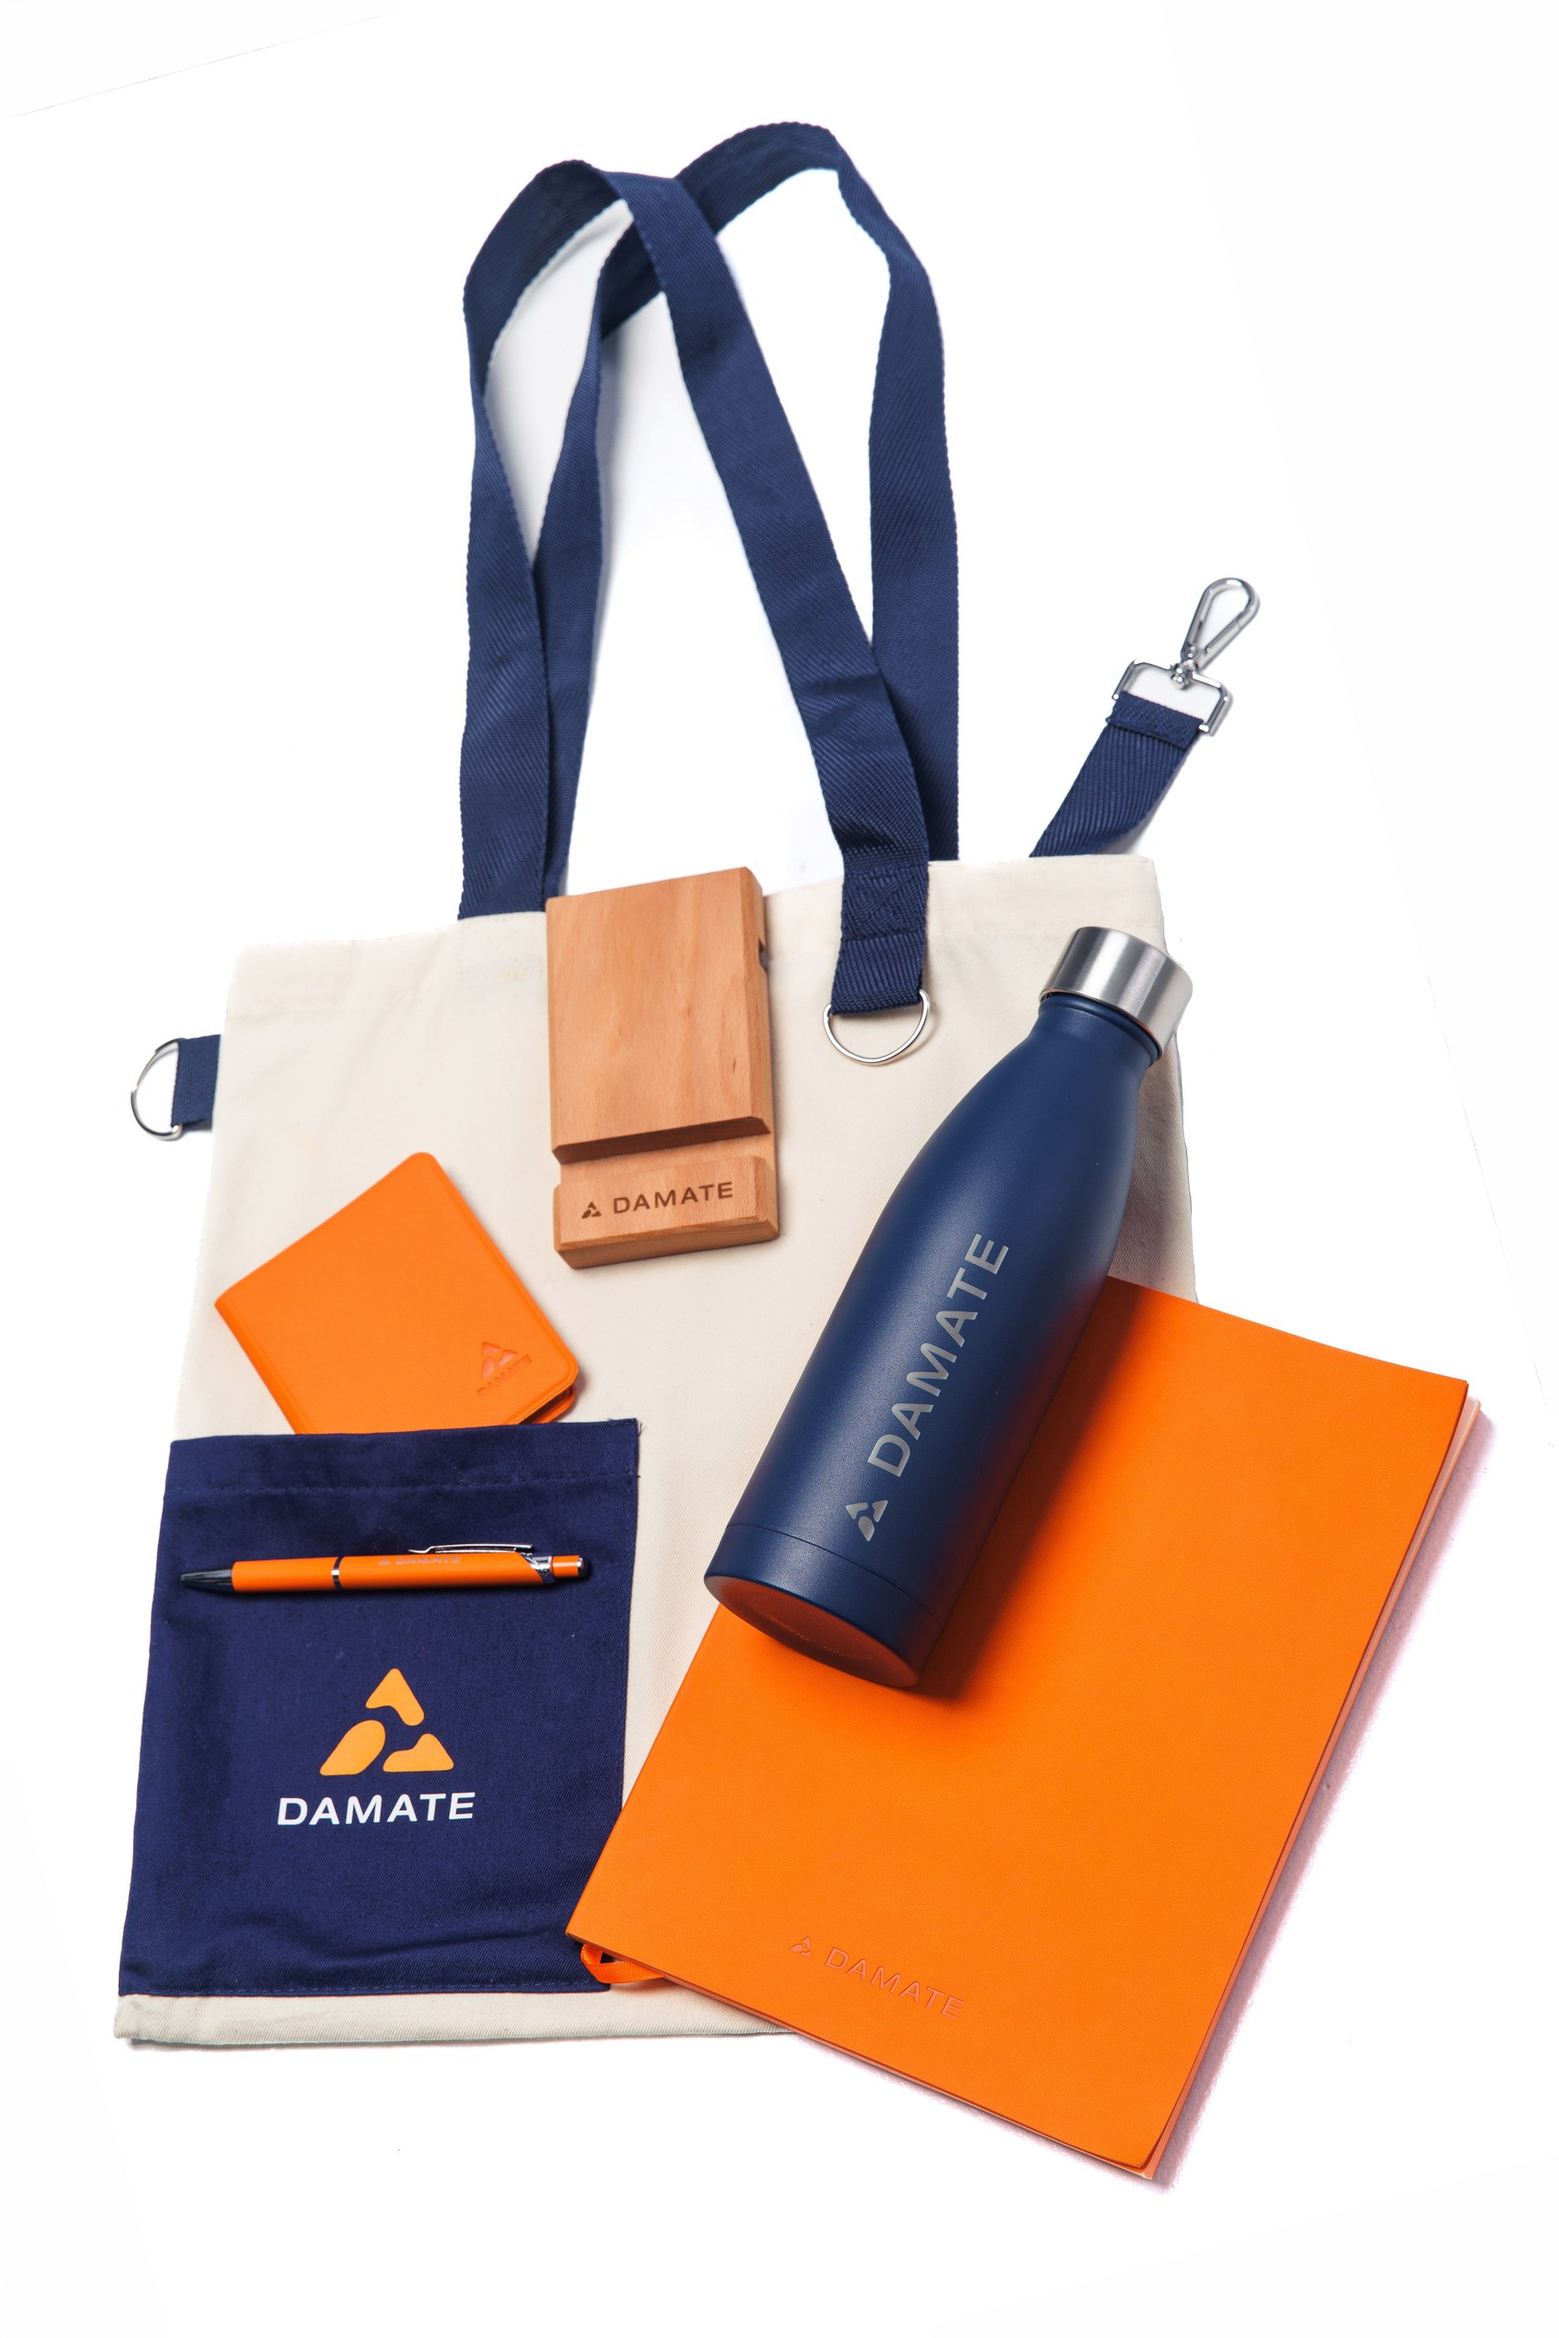
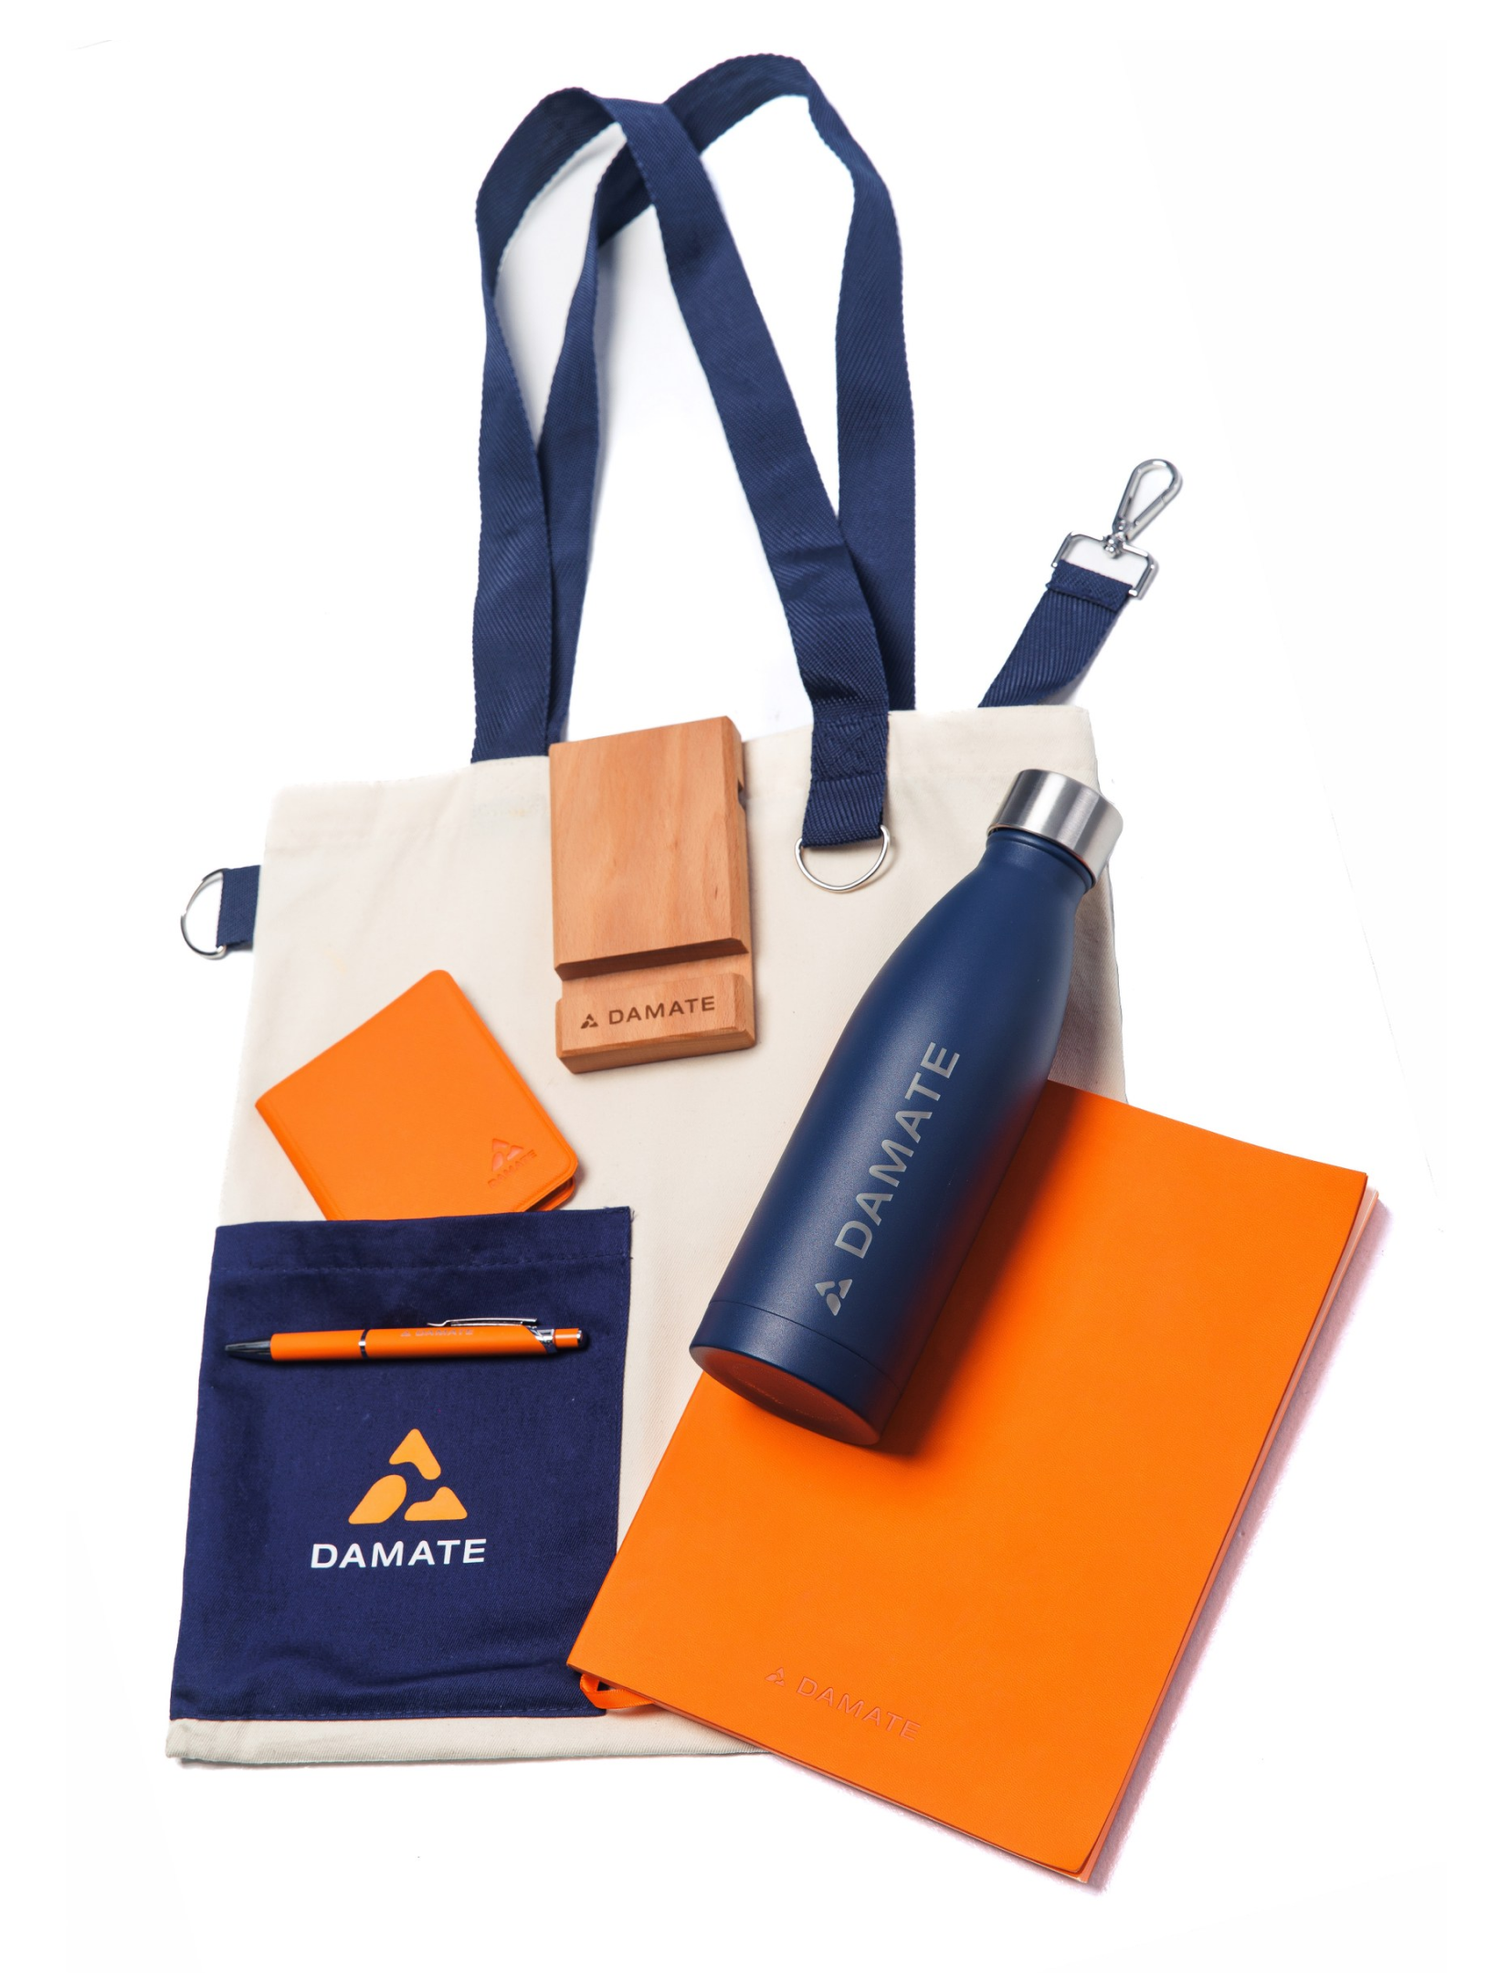
Рефакторинг блока Кейсы с результатом

Changed region(s): [[0.0617, 0.0, 0.957, 0.9616], [0.6174, 0.6824, 0.6483, 0.7134]]

diff --git a/src/widgets/home-digest/home-digest.data.ts b/src/widgets/home-digest/home-digest.data.ts
@@ -54,7 +54,7 @@ export const DIGEST_CARDS: HomeDigestCard[] = [
       src: "/home/digest-partners.png",
       alt: "Подарок для партнеров",
       sizes: "(max-width: 767px) calc(100vw - 60px), (max-width: 1279px) 360px, 412px",
-      imageClassName: "object-contain object-center scale-[1.05]",
+      imageClassName: "object-cover object-center",
     },
   },
   {
@@ -66,7 +66,7 @@ export const DIGEST_CARDS: HomeDigestCard[] = [
       src: "/home/digest-events.png",
       alt: "Мерч для мероприятий",
       sizes: "(max-width: 767px) calc(100vw - 60px), (max-width: 1279px) 360px, 413px",
-      imageClassName: "object-contain object-center scale-[1.05]",
+      imageClassName: "object-cover object-center",
     },
   },
   {
@@ -83,7 +83,7 @@ export const DIGEST_CARDS: HomeDigestCard[] = [
       src: "/home/digest-team.png",
       alt: "Мерч для команды",
       sizes: "(max-width: 767px) calc(100vw - 60px), (max-width: 1279px) 480px, 413px",
-      imageClassName: "object-contain object-center scale-[1.08]",
+      imageClassName: "object-cover object-top",
     },
   },
   {
@@ -101,7 +101,7 @@ export const DIGEST_CARDS: HomeDigestCard[] = [
       src: "/home/digest-souvenirs.png",
       alt: "Сувенирная продукция",
       sizes: "(max-width: 767px) calc(100vw - 60px), (max-width: 1279px) 480px, 413px",
-      imageClassName: "object-contain object-center scale-[1.07]",
+      imageClassName: "object-cover object-center",
     },
   },
   {
@@ -113,7 +113,7 @@ export const DIGEST_CARDS: HomeDigestCard[] = [
       src: "/home/digest-uniform.png",
       alt: "Корпоративная униформа",
       sizes: "(max-width: 767px) calc(100vw - 60px), (max-width: 1279px) 360px, 413px",
-      imageClassName: "object-contain object-center scale-[1.05]",
+      imageClassName: "object-cover object-top",
     },
   },
   {
@@ -125,7 +125,7 @@ export const DIGEST_CARDS: HomeDigestCard[] = [
       src: "/home/digest-workwear.png",
       alt: "Корпоративная спецодежда",
       sizes: "(max-width: 767px) calc(100vw - 60px), (max-width: 1279px) 360px, 412px",
-      imageClassName: "object-contain object-center scale-[1.05]",
+      imageClassName: "object-cover object-top",
     },
   },
 ];

diff --git a/src/widgets/home-digest/digest-card.tsx b/src/widgets/home-digest/digest-card.tsx
@@ -43,7 +43,7 @@ function DigestDefaultCard({
           alt={item.image.alt}
           fill
           sizes={item.image.sizes}
-          className={cn("object-contain object-center", item.image.imageClassName)}
+          className={cn("object-cover", item.image.imageClassName)}
         />
       </div>
 
@@ -100,7 +100,7 @@ function DigestWildCard({
           alt={item.image.alt}
           fill
           sizes={item.image.sizes}
-          className={cn("object-contain object-center", item.image.imageClassName)}
+          className={cn("object-cover", item.image.imageClassName)}
         />
       </div>
 
